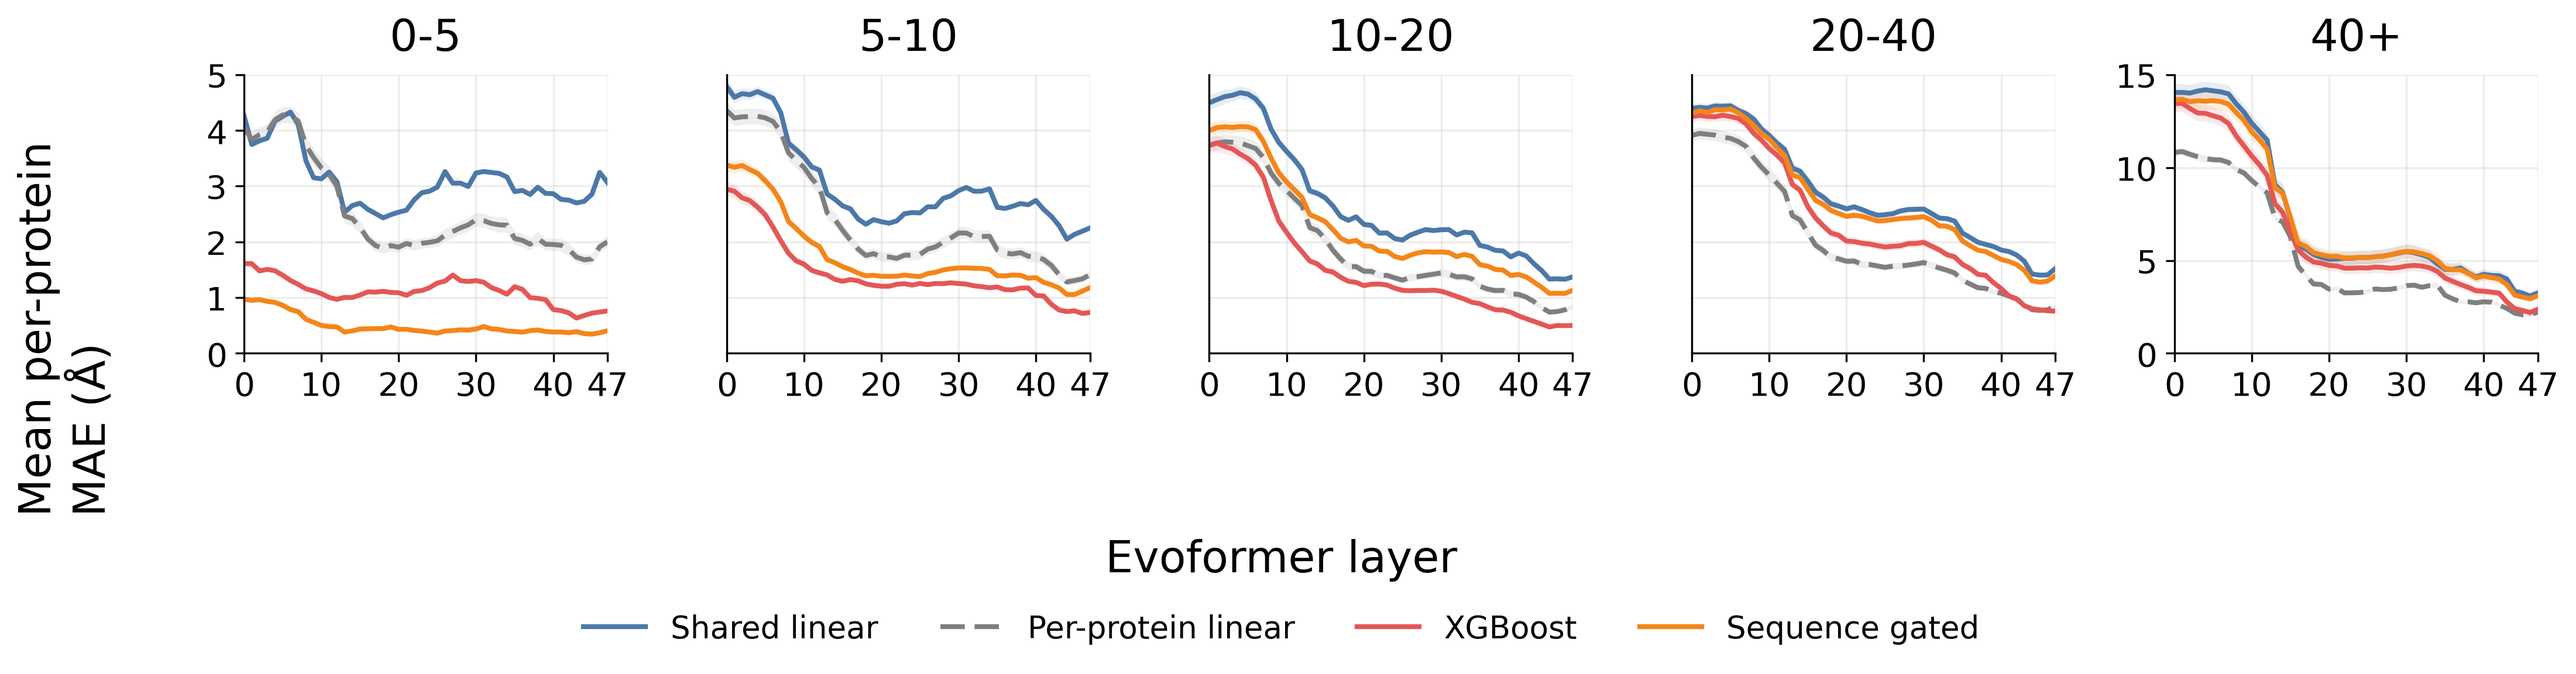
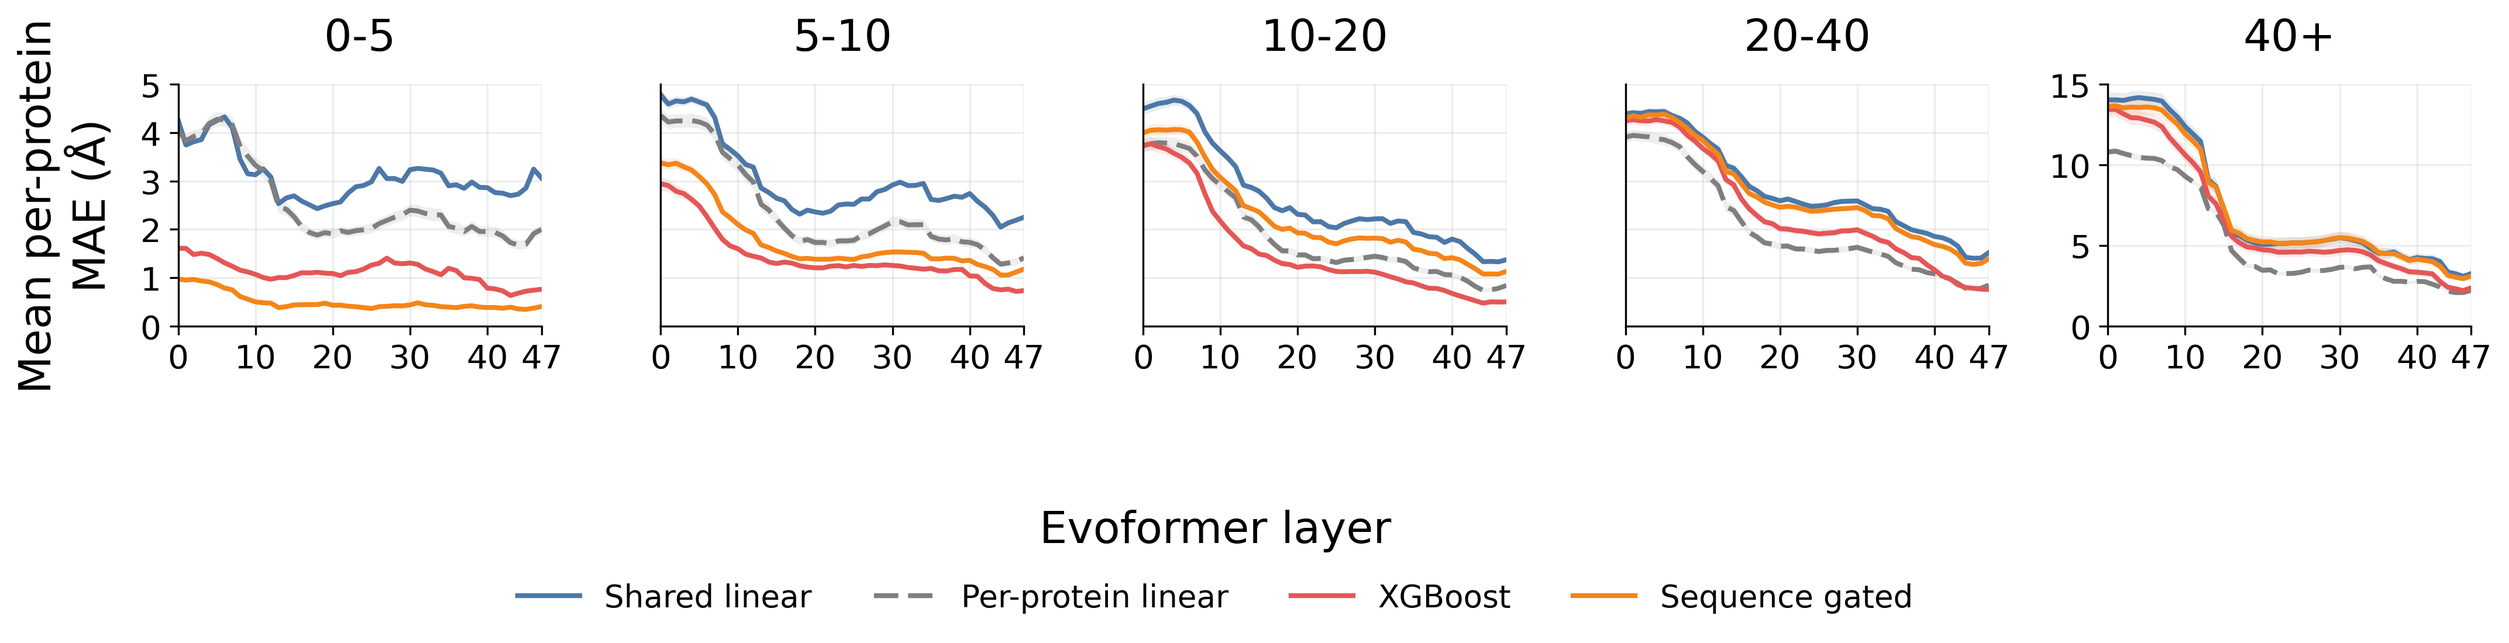
Align spatial distance figure labels

diff --git a/scripts/multi_protein/generate_sept_2_publication_plots.py b/scripts/multi_protein/generate_sept_2_publication_plots.py
@@ -895,13 +895,17 @@ def faceted_subgroup_figure(
         axis.set_visible(False)
     handles, labels = flat[0].get_legend_handles_labels()
     if shared_axis_labels:
-        figure.supylabel(ylabel)
+        shared_ylabel = figure.supylabel(
+            ylabel, x=0.045, multialignment="center"
+        )
         figure.supxlabel("Evoformer layer", y=0.14)
         figure.legend(
             handles, labels, loc="lower center", bbox_to_anchor=(0.5, 0.01),
             ncol=4, frameon=False,
         )
-        figure.tight_layout(rect=(0.025, 0.22, 1, 1))
+        figure.tight_layout(rect=(0.025, 0.22, 1, 0.98))
+        first_axis_bounds = flat[0].get_position()
+        shared_ylabel.set_y((first_axis_bounds.y0 + first_axis_bounds.y1) / 2)
     else:
         figure.legend(handles, labels, loc="lower center", ncol=4, frameon=False)
         figure.tight_layout(rect=(0, 0.08, 1, 1))
@@ -1284,14 +1288,14 @@ def main() -> None:
         spatial_summary, SPATIAL_BINS, "Mean per-protein\nMAE (Å)",
         "main_figure_15_spatial_distance_mae_combined", MAIN_DIR,
         ncols=len(SPATIAL_BINS),
-        figsize=(15, 4.0),
+        figsize=(15, 3.9),
         ylimits={category: (0, 5) for category in SPATIAL_BINS[:-1]}
         | {SPATIAL_BINS[-1]: (0, 15)},
         yticks={category: tuple(range(6)) for category in SPATIAL_BINS[:-1]}
         | {SPATIAL_BINS[-1]: (0, 5, 10, 15)},
         visible_y_tick_categories=(SPATIAL_BINS[0], SPATIAL_BINS[-1]),
         shared_axis_labels=True,
-        title_pad=10,
+        title_pad=14,
     )
     manifest.append(manifest_row(stem="main_figure_15_spatial_distance_mae_combined", section="main", title="Protein-equal MAE by true spatial distance", png=png, pdf=pdf, source_csvs=[source_paths["spatial_raw"], source_paths["spatial_summary"], source_paths["reconciliation"]], uncertainty=standard_uncertainty))
     for stem, png, pdf in standalone_subgroup_figures(
